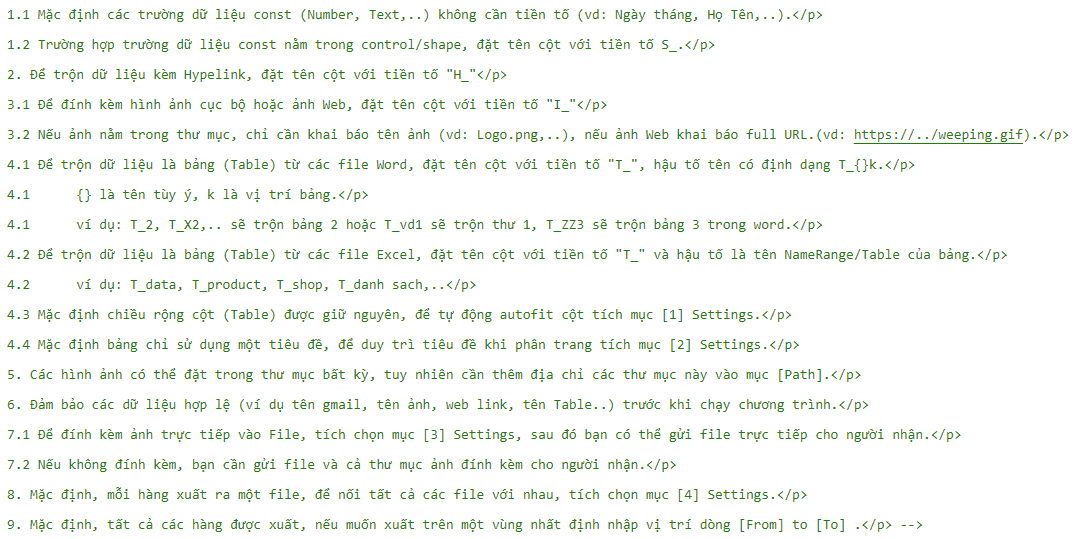
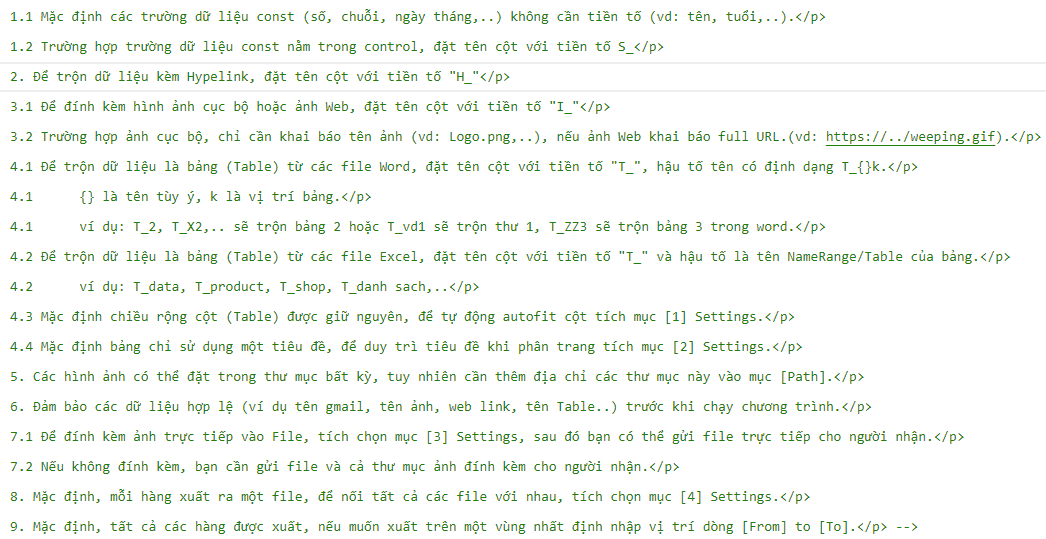
ok

diff --git a/latest updates.html b/latest updates.html
@@ -35,6 +35,21 @@
         </note>
     </p>
     <blockquote>
+        <p>&nbsp;Bổ sung tính năng [MailMerge]: xóa dòng hoặc thay thế dòng nếu field không tồn tại.</p>
+    </blockquote>
+
+    <p tabindex="-1" dir="auto">
+        <note>
+            <svg class="octicon octicon-link" viewBox="0 0 16 16" version="1.1" width="16" height="16"
+                aria-hidden="true">
+                <path
+                    d="m7.775 3.275 1.25-1.25a3.5 3.5 0 1 1 4.95 4.95l-2.5 2.5a3.5 3.5 0 0 1-4.95 0 .751.751 0 0 1 .018-1.042.751.751 0 0 1 1.042-.018 1.998 1.998 0 0 0 2.83 0l2.5-2.5a2.002 2.002 0 0 0-2.83-2.83l-1.25 1.25a.751.751 0 0 1-1.042-.018.751.751 0 0 1-.018-1.042Zm-4.69 9.64a1.998 1.998 0 0 0 2.83 0l1.25-1.25a.751.751 0 0 1 1.042.018.751.751 0 0 1 .018 1.042l-1.25 1.25a3.5 3.5 0 1 1-4.95-4.95l2.5-2.5a3.5 3.5 0 0 1 4.95 0 .751.751 0 0 1-.018 1.042.751.751 0 0 1-1.042.018 1.998 1.998 0 0 0-2.83 0l-2.5 2.5a1.998 1.998 0 0 0 0 2.83Z">
+                </path>
+            </svg>
+            <font style="vertical-align: inherit;">Vs 10.2.6.56</font>
+        </note>
+    </p>
+    <blockquote>
         <p>&nbsp;Fix lỗi [MailMerge] khi cập nhật field đơn.</p>
         <p>&nbsp;Bổ sung tính năng [MailMerge] cho các trường const trong phạm vi shape.</p>
         <p>&nbsp;Bổ sung hightlight [MailMerge] cho các trường const trong phạm vi shape.</p>

diff --git a/r.mailmerge.html b/r.mailmerge.html
@@ -48,8 +48,8 @@
         </note>
      </p>
     <blockquote><!-- 
-        <p>&nbsp;   1.1 Mặc định các trường dữ liệu const (Number, Text,..) không cần tiền tố (vd: Ngày tháng, Họ Tên,..).</p>
-        <p>&nbsp;   1.2 Trường hợp trường dữ liệu const nằm trong control/shape, đặt tên cột với tiền tố S_</p>
+        <p>&nbsp;   1.1 Mặc định các trường dữ liệu const (số, chuỗi, ngày tháng,..) không cần tiền tố (vd: tên, tuổi,..).</p>
+        <p>&nbsp;   1.2 Trường hợp trường dữ liệu const nằm trong control, đặt tên cột với tiền tố S_</p>
         <p>&nbsp;   2. Để trộn dữ liệu kèm Hypelink, đặt tên cột với tiền tố "H_"</p>
         <p>&nbsp;   3.1 Để đính kèm hình ảnh cục bộ hoặc ảnh Web, đặt tên cột với tiền tố "I_"</p>
         <p>&nbsp;   3.2 Trường hợp ảnh cục bộ, chỉ cần khai báo tên ảnh (vd: Logo.png,..), nếu ảnh Web khai báo full URL.(vd: https://../weeping.gif).</p>

diff --git a/index.html b/index.html
@@ -181,7 +181,7 @@
             </p>
 
             <p>
-               <a>● Mở rộng đáng kể tính năng có sẵn trên Excel & VBA bao gồm thư viện Hàm (500 new functions),
+               <a>● Mở rộng đáng kể tính năng có sẵn trên Excel & VBA bao gồm thư viện Hàm khủng khiếp (500 new functions),
                   phím tắt (~50 ShortcutKeys), ~250 tổ hợp chức năng từ Ribbon.</a>
             </p>
             <p>
